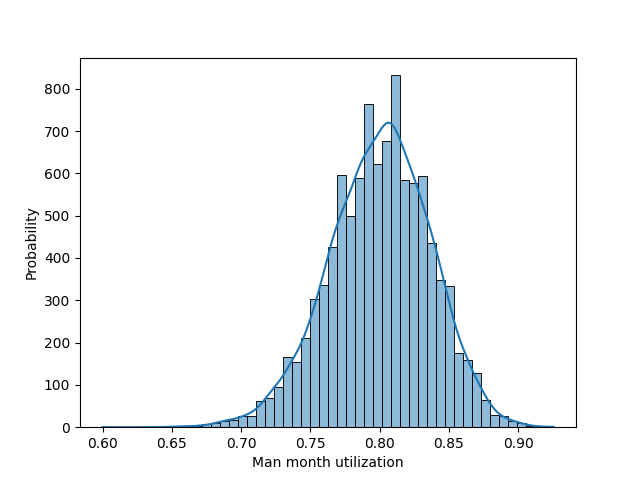
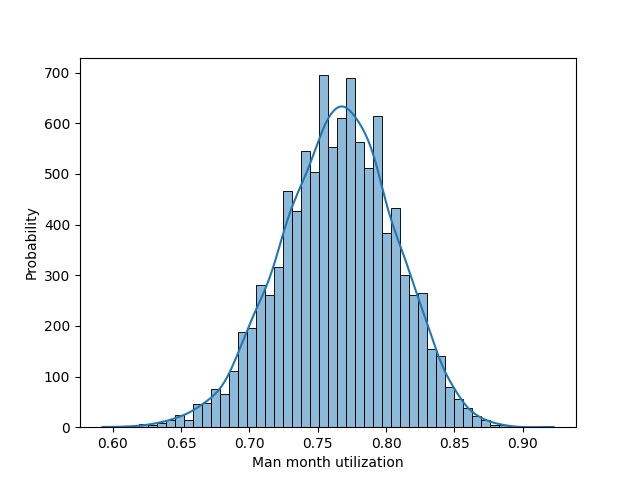
-made all the correct plots

diff --git a/GroupAssignment2.py b/GroupAssignment2.py
@@ -214,7 +214,7 @@ class Simulation:
         self.total_revenue, self.total_profit, self.proportion_of_missed_proj, self.total_utilization = [], [], [], []
 
         for initialization in range(self.initialization + 1):
-            print(initialization)
+            # print(initialization)
             one_go_total_revenue, one_go_total_profit, one_go_proportion_of_missed_proj, one_go_utilization_man_months = self._one_go_intitalisation()
             self.total_revenue.append(one_go_total_revenue)
             self.total_profit.append(one_go_total_profit)
@@ -257,6 +257,7 @@ class Simulation:
         plt.close()
 
 
+"""
 # Strategy 1:
 strategy_1 = Simulation(bid=20000)
 strategy_1.revenue_plot()
@@ -265,11 +266,11 @@ strategy_1.missed_project_proportion_plot()
 strategy_1.man_month_utilization_plot()
 np.mean(strategy_1.total_revenue)
 # exp rev = 36968675.13248675
-
 """
+
 # Strategy 2:
 np.random.seed(1810)
-proposed_bids = np.random.randint(20000, 30000, 10)
+proposed_bids = np.random.randint(15000, 40000, 10)
 highest_expected_revenue = 0
 # highest_expected_revenue = 39959221.68823118
 best_bid = 0
@@ -286,6 +287,7 @@ for bid in proposed_bids:
         best_bid = bid
         highest_expected_revenue = np.mean(strategy.total_revenue)
     outcome[bid] = np.mean(strategy.total_revenue)
+
 """
 # Strategy 3:
 
@@ -295,7 +297,8 @@ strategy_3.profit_plot()
 strategy_3.missed_project_proportion_plot()
 strategy_3.man_month_utilization_plot()
 np.mean(strategy_3.total_revenue)
-#Exp rec = 44704428.15718428
+#Exp rev = 42943152.48475152
+"""
 """
 # Strategy 4:
 
@@ -307,7 +310,7 @@ def run_simulation_greedy():
     strategy.missed_project_proportion_plot()
     strategy.man_month_utilization_plot()
 
-
+"""
 """
 strategy_4 = Simulation(n=50, greedy=True)
 strategy_4.revenue_plot()
@@ -316,8 +319,9 @@ strategy_4.missed_project_proportion_plot()
 strategy_4.man_month_utilization_plot()
 np.mean(strategy_4.total_revenue)
 """
-
+"""
 if __name__ == '__main__':
     p = Process(target=run_simulation_greedy)
     p.start()
     p.join()
+"""
